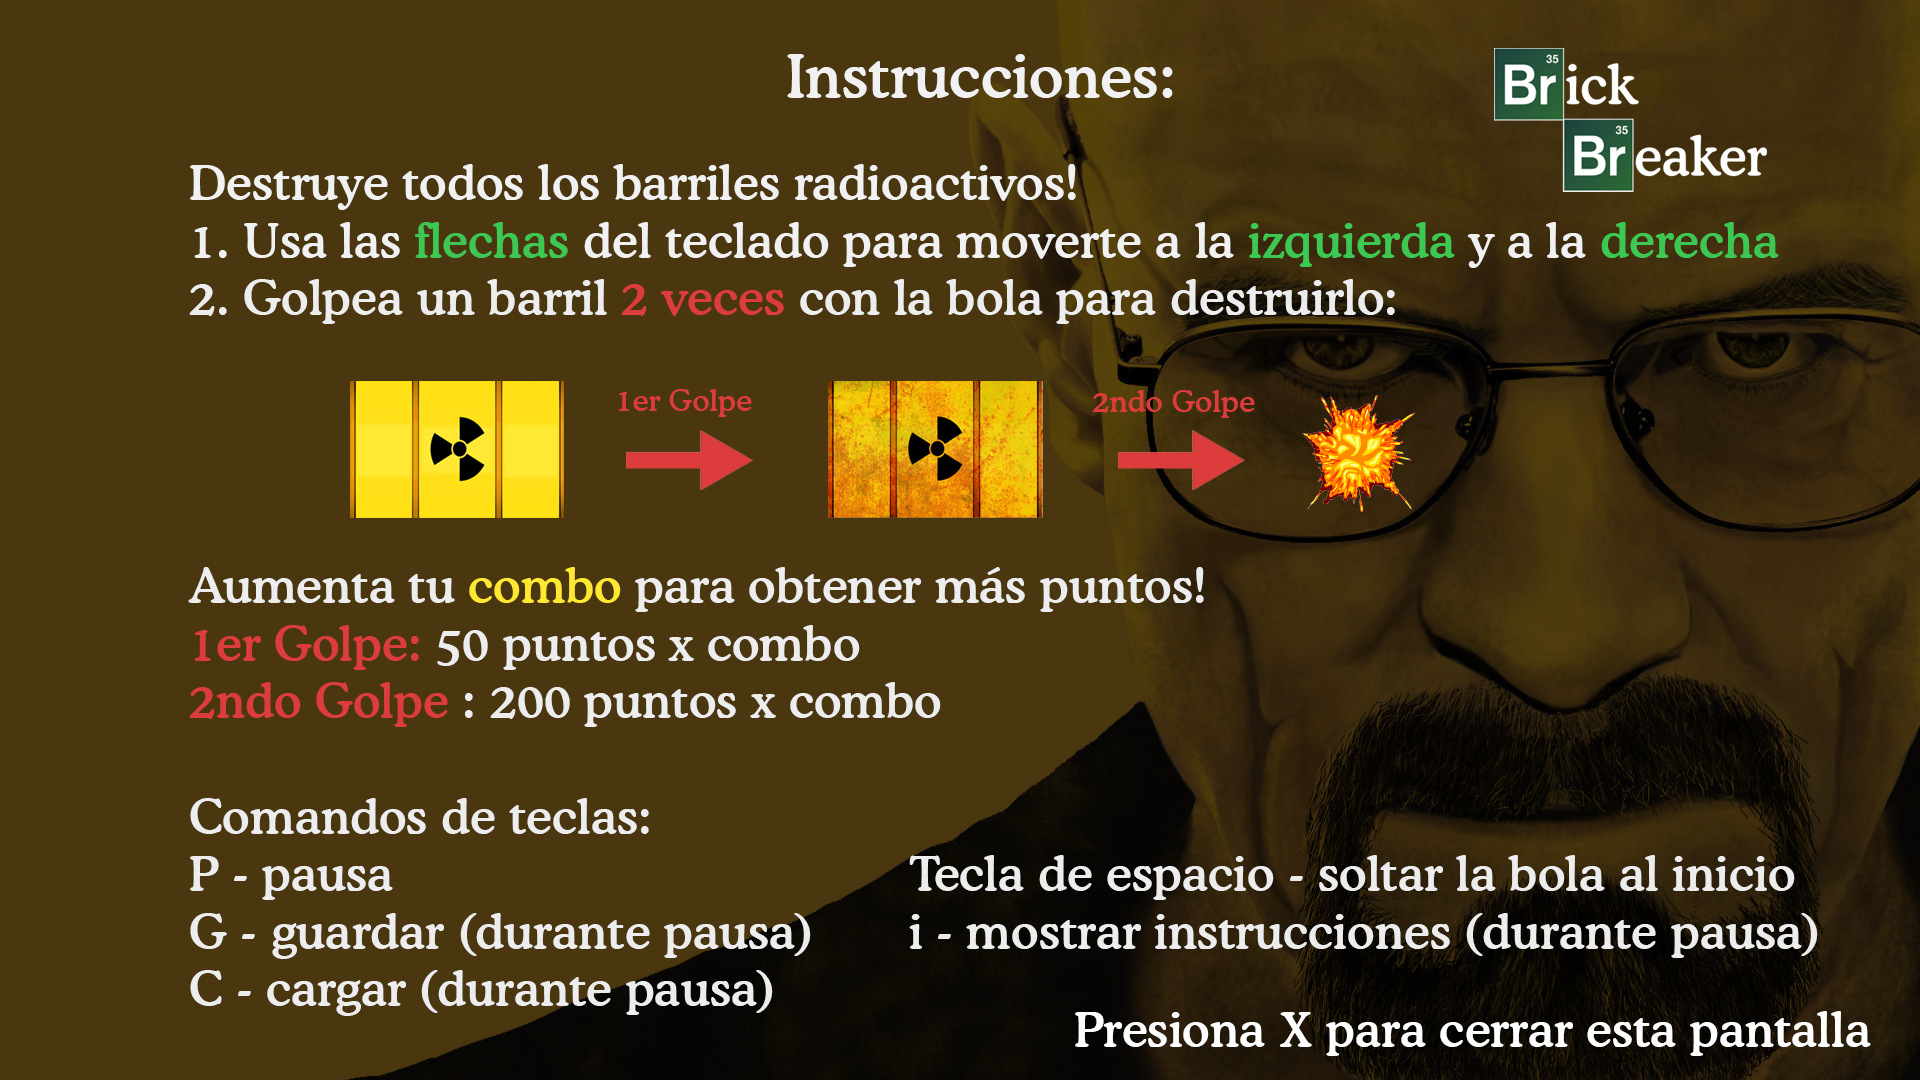
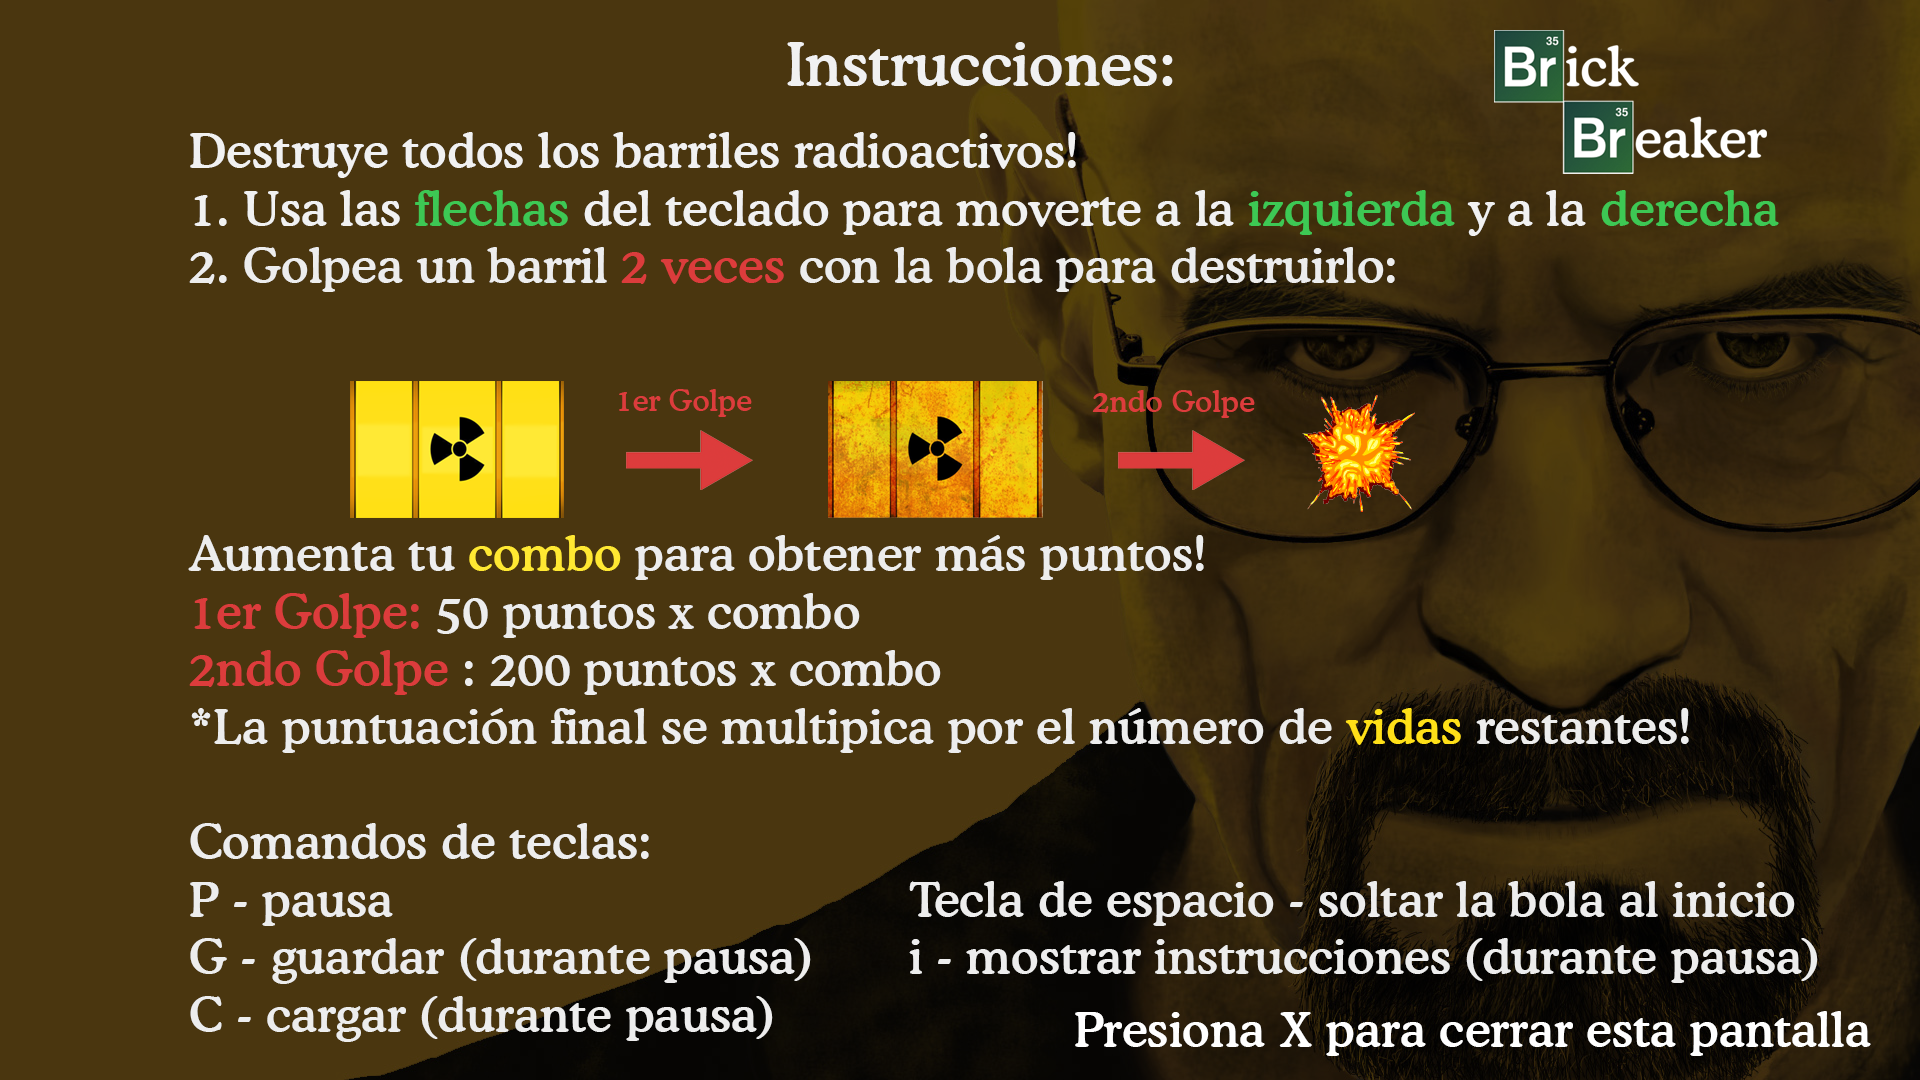
some comments

diff --git a/BreakingBadBreaker/src/videogame/Game.java b/BreakingBadBreaker/src/videogame/Game.java
@@ -64,17 +64,17 @@ public class Game implements Runnable {
     private Thread thread;
     private boolean running;
 
-    private KeyManager keyManager;
-    private MouseManager mouseManager;
+    private KeyManager keyManager; //to manage key inputs
+    private MouseManager mouseManager;//to use the mouse
 
-    private Player player;
-    private ArrayList<Brick> bricks;
-    private LinkedList<PowerUp> powerups;
-
+    private Player player; //player's paddle
+    private ArrayList<Brick> bricks; //array of bricks
+    private LinkedList<PowerUp> powerups; //array of powerups
+ 
     private Ball ball;
     
     private boolean pause;
-    private boolean gameOver;
+    private boolean gameOver; //whether the game is over
     private boolean gameDone;
     
     private boolean brickBroke;
@@ -82,13 +82,13 @@ public class Game implements Runnable {
     
     private boolean starting;
     
-    private int score; //puntuación actual
-    private int combo; //combo actual
-    private int maxCombo; //combo maximo alcanzado
+    private int score; //current score
+    private int combo; //current combo
+    private int maxCombo; //maximum combo reached
 
-    private boolean gameStart; //el juego comienza
-    private boolean firstInstructions; //primera pantalla de instrucciones
-    private boolean pauseInstructions; //instrucciones desde el menú de pausa
+    private boolean gameStart; //the game starts
+    private boolean firstInstructions; //first instrutions screen
+    private boolean pauseInstructions; //instructions from pause menu
     /**
      * to create title, width and heigh t and set the game is still not running
      * 
@@ -107,10 +107,10 @@ public class Game implements Runnable {
         mouseManager = new MouseManager();
         pause = false;
         starting = true;
-        score = 0;
-        combo = 0;
+        score = 0; //initialize score as 0
+        combo = 0; //initialize combo as 0
         gameDone = false;
-        maxCombo = 0;
+        maxCombo = 0; //initialize maxCombo as 0
         gameStart = false;
         firstInstructions = false;
         pauseInstructions = false;
@@ -123,19 +123,24 @@ public class Game implements Runnable {
         display = new Display(title, width, height);
         Assets.init();
 
-        player = new Player(getWidth() / 2, 650, 150, 30, this);
-        ball = new Ball(getWidth() / 2 - 25, getHeight() / 2 - 25, 50, 50, this);
-        
+        player = new Player(getWidth() / 2, 650, 150, 30, this); //creates a player
+        ball = new Ball(getWidth() / 2 - 25, getHeight() / 2 - 25, 50, 50, this); //creates a ball
+        //makes the array of bricks to start the game
         int brickNum = 0;
         int row = 0;
+        //24 total bricks
         for (int i = 0; i < 24; i++) {
+            //6 bricks per row
             if(brickNum >= 6){
                 brickNum = 0;
                 row++;
             }
+            //adds a brick to the array in the next position
             bricks.add(new Brick(100+brickNum*173, 100+row*75, 100, 50, this));
+            //increase number of current bricks
             brickNum++;
         }
+        //initialize all bricks as not broken
         brickBroke = false;
         numBrokenBricks = 0;
 
@@ -145,6 +150,7 @@ public class Game implements Runnable {
         display.getCanvas().addMouseListener(mouseManager);
         display.getCanvas().addMouseMotionListener(mouseManager);
         
+        //reset all the positions of the items
         resetPositions();
         
         Assets.backMusic.setLooping(true);
@@ -155,38 +161,54 @@ public class Game implements Runnable {
      * updates all objects on a frame
      */
     private void tick() {
+        //if the game is over
         if (gameOver) {
             keyManager.tick();
+            //if presses r
             if (keyManager.r) {
                 gameOver = false;
+                //starts a new game
                 resetGame();
             }
             return;
         }
         
+        //if the game is paused
         if (pause) {
             keyManager.tick();
+            //if g key is pressed
             if (keyManager.g)
+                //make a save file
                 saveGame();
+            //if c key is pressed
             if (keyManager.c)
+                //load the save file
                 loadGame();
+            //if i key is pressed
             if  (keyManager.i){
+                //set the pause instructions to true to be displayed
                 pauseInstructions = true;
             }
+            //if pause instructions are open
             if  (pauseInstructions){
+                //if x key is pressed
                 if(keyManager.x){
+                    //set pause instructions to false to close
                     pauseInstructions = false;
                 }
             }
+            //if p key is pressed while pause instructions are closed
             if (keyManager.p && !pauseInstructions) {
+                //change the status of pause to its opposite boolean value
                 pause = !pause;
             }
             return;
         }
-        
+        //if the game is done
         if (gameDone) {
             keyManager.tick();
             if (keyManager.r) {
+                //reset the game if r key is pressed
                 gameDone = false;
                 resetGame();
             }
@@ -194,35 +216,44 @@ public class Game implements Runnable {
         }
         
         keyManager.tick();
-        
+        //if the game hasn't started
         if(!gameStart){
+            //if enter key is pressed
             if(keyManager.enter){
+                //start the game
                 gameStart = true;
             }
         }
+        //if the first instructions haven't been closed
         if(!firstInstructions){
             if(keyManager.x){
+                //close them if x is pressed
                 firstInstructions = true;
             }
         }
         
+        //if the game started and the first instructions were already seen
         if(gameStart&&firstInstructions){
+            //tick player and ball items
             player.tick();
             ball.tick();
-
+            //if the game just started and the ball is with the player
             if (starting) {
                 if (keyManager.space) {
+                    //start the game after pressing the space bar
                     starting = false;
                 }
             }
-
+            //if the player intersects with the ball and the game is not just starting
             if (ball.intersects(player) && !starting) {
-                combo = 0;
-                int pad = 10;
-
+                combo = 0; //reset the combo
+                int pad = 10; //Padding is the error tolerance of the collision of the ball with the left and right side of the player
+                //verify if the player is bewteen the upper and the lower edge of the ball
                 boolean playerBetween = ball.getY() > player.getY() + pad && ball.getY() < player.getY() + player.getHeight() - pad;
+                //verify if the ball's upper edge is bewteen the player's height
                 boolean upBetweenPlayer = ball.getY() + ball.getHeight() > player.getY() + pad&&ball.getY() + ball.getHeight() < player.getY()
-                            + player.getHeight() - pad;
+                            + player.getHeight() - pad;               
+                //verify if the ball's lower edge is between the player's height
                 boolean downBetweenPlayer = ball.getY() < player.getY() && ball.getY() + ball.getHeight() > player.getY() + player.getHeight();
                 //Check if the ball hits from aside
                 if(playerBetween || upBetweenPlayer || downBetweenPlayer){
@@ -261,16 +292,18 @@ public class Game implements Runnable {
             for(int i=0; i<bricks.size(); i++){
                 Brick myBrick = bricks.get(i);
                 myBrick.tick();
-
+                
                 bricksDone = bricksDone && myBrick.isBroken();
 
                 //Check if the ball collides with a brick
                 if(ball.intersects(myBrick) && !brickBroke && !myBrick.isBroken()){
+                    //increase the combo by 1
                     combo++;
+                    //check if the max combo needs to be updated
                     if(combo>maxCombo){
                         maxCombo = combo;
                     }
-
+                    //decreases one live out of the 2 lives of the brick 
                     myBrick.setLives(myBrick.getLives()-1);
 
                     if (myBrick.getLives() == 0) {
@@ -278,6 +311,7 @@ public class Game implements Runnable {
                         myBrick.setRecentBroken(true);
                         //Set it to permanently broken
                         myBrick.setBroken(true);
+                        //increase the score by 200 times the current combo
                         score += 200*combo;
                         Assets.explosionSound.play();
                     } else {
@@ -299,10 +333,12 @@ public class Game implements Runnable {
 
                     //Padding is the error tolerance of the collision of the ball with the left and right side of the bricks
                     int padding = 5;
-
+                    //verify if the brick is bewteen the upper and the lower edge of the ball
                     boolean brickBetween = ball.getY() > myBrick.getY() + padding && ball.getY() < myBrick.getY() + myBrick.getHeight() - padding;
+                    //verify if the ball's upper edge is bewteen the bricks's height
                     boolean upBetween = ball.getY() + ball.getHeight() > myBrick.getY() + padding&&ball.getY() + ball.getHeight() < myBrick.getY()
                             + myBrick.getHeight() - padding;
+                    //verify if the ball's lower edge is bewteen the bricks's height
                     boolean downBetween = ball.getY() < myBrick.getY() && ball.getY() + ball.getHeight() > myBrick.getY() + myBrick.getHeight();
 
                     //Check if the collision is on the side of the brick
@@ -410,7 +446,7 @@ public class Game implements Runnable {
                     g.clearRect(0, 0, width, height);
                     g.drawImage(Assets.instructions, 0, 0, width, height, null);
                 }
-
+                //all player lives were used
                 if (gameOver) {
                     g.setFont(new Font(Font.SANS_SERIF, Font.BOLD, 100));
                     g.drawString("GAME OVER", width/2 - 350, height/2 + 50);
@@ -426,14 +462,14 @@ public class Game implements Runnable {
                     g.setFont(new Font(Font.SANS_SERIF, Font.BOLD, 100));
                     g.drawString("PAUSA", width/2 - 200, height/2 + 50);
                 }
-
+                //all bricks were destroyed
                 if (gameDone) {
                     g.setFont(new Font(Font.SANS_SERIF, Font.BOLD, 100));
                     g.drawString("YOU WIN!", width/2 - 250, height/2 + 50);
                     g.setFont(new Font(Font.SANS_SERIF, Font.PLAIN, 30));
                     g.drawString("Presiona R para iniciar un nuevo juego", width/2 - 300, height/2 + 100);
                     g.setFont(new Font(Font.SANS_SERIF, Font.PLAIN, 30));
-                    g.drawString("Final Score: " + score, width/2 - 120, height/2 + 150);
+                    g.drawString("Final Score: " + score*player.getLives(), width/2 - 120, height/2 + 150);
                     g.setFont(new Font(Font.SANS_SERIF, Font.PLAIN, 30));
                     g.drawString("Maximum Combo: " + maxCombo, width/2 - 152, height/2 + 200);
                 }

diff --git a/BreakingBadBreaker/src/videogame/Assets.java b/BreakingBadBreaker/src/videogame/Assets.java
@@ -13,19 +13,19 @@ import java.awt.image.BufferedImage;
  */
 public class Assets {
 
-    public static BufferedImage background;
-    public static BufferedImage player;
-    public static BufferedImage brick;
-    public static BufferedImage brickHalf;
-    public static BufferedImage life;
-    public static BufferedImage fastPower;
-    public static BufferedImage bigPower;
+    public static BufferedImage background; //background image
+    public static BufferedImage player; //player paddle image
+    public static BufferedImage brick; //brick sprite
+    public static BufferedImage brickHalf; //brick sprite after a first hit
+    public static BufferedImage life; //lives sprite
+    public static BufferedImage fastPower; //powerup to increase player's speed
+    public static BufferedImage bigPower; //powerup to increase player's size
     
-    public static BufferedImage ballSprites;
-    public static BufferedImage explosionSprites;
+    public static BufferedImage ballSprites; //contains all the sprites of the ball's animation
+    public static BufferedImage explosionSprites; //contains all the sprites of the explosion after destroying a brick
     
-    public static BufferedImage animationBall[];
-    public static BufferedImage animationExplosion[];
+    public static BufferedImage animationBall[]; //array of ball's animation sprites
+    public static BufferedImage animationExplosion[]; //array of explosion's animation sprites
     
     public static BufferedImage startScreen;
     public static BufferedImage instructions;

diff --git a/BreakingBadBreaker/src/videogame/Animation.java b/BreakingBadBreaker/src/videogame/Animation.java
@@ -12,10 +12,10 @@ import java.awt.image.BufferedImage;
  * @author charles
  */
 public class Animation {
-    private int speed;
-    private int index;
-    private long lastTime;
-    private long timer;
+    private int speed; //animation speed
+    private int index; // number of the animation frame
+    private long lastTime; //last ticked time
+    private long timer; //curent time
     
     private boolean done;
     
